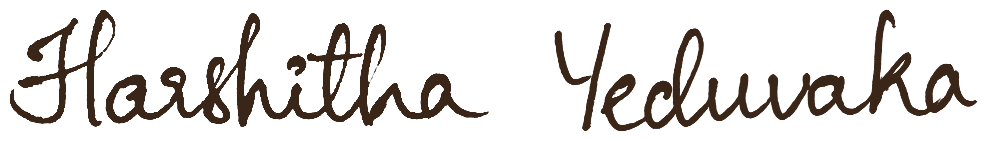
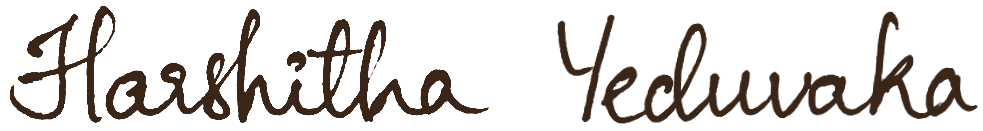
Signature: 'Yeduvaka' levelled (-2deg) onto Harshitha's baseline; CSS tilt removed

diff --git a/scripts/app.js b/scripts/app.js
@@ -1,8 +1,8 @@
 // app.js — motion orchestration, desk interactions, section rendering.
-import { play, playFile, startMusic, stopMusic, isMuted, setMuted } from "./sound.js?v=20261110j";
+import { play, playFile, startMusic, stopMusic, isMuted, setMuted } from "./sound.js?v=20261110k";
 import {
   meta, about, kit, tools, experience, projects,
-} from "./content.js?v=20261110j";
+} from "./content.js?v=20261110k";
 
 const { gsap, ScrollTrigger, Lenis } = window;
 gsap.registerPlugin(ScrollTrigger);
@@ -126,7 +126,7 @@ function passKit() {
     } else {
       b.innerHTML = `
       <span class="kit__img"><img src="${k.img}" alt="" width="${k.w}" height="${k.h}" loading="lazy" decoding="async" draggable="false" />${
-        k.ink ? `<span class="kit__ink" aria-hidden="true"><span class="kit__sign"><img src="assets/signature.png" alt="" width="983" height="141" draggable="false" /></span>${
+        k.ink ? `<span class="kit__ink" aria-hidden="true"><span class="kit__sign"><img src="assets/signature.png" alt="" width="983" height="131" draggable="false" /></span>${
           k.ink.lines.map((l) => `<span class="kit__type">${l}</span>`).join("")}</span>` : ""
       }</span>`;
     }
@@ -323,7 +323,7 @@ function passKit() {
   if (chaosInk) {
     const [title, tagline] = kit.find((k) => k.ink).ink.lines;
     chaosInk.innerHTML = `
-      <span class="chaos-ink__name"><img src="assets/signature.png" alt="" width="983" height="141" draggable="false" /></span>
+      <span class="chaos-ink__name"><img src="assets/signature.png" alt="" width="983" height="131" draggable="false" /></span>
       <span class="chaos-ink__title">${title}</span>
       <span class="chaos-ink__tag">${tagline}</span>`;
   }

diff --git a/styles/main.css b/styles/main.css
@@ -291,7 +291,7 @@ section { position: relative; }
 .kit__sign {
   display: block; width: 84cqw; padding: 1cqw 0 0; /* her handwritten name (assets/signature.png) */
   line-height: 0;
-  transform: rotate(.45deg); /* cancels the handwriting's own slight upward slope: baseline parallel to the lines below */
+  /* both words are level in the image itself, so no extra rotation: parallel to the lines below */
 }
 .kit__type {
   font-family: "Martian Mono", monospace; font-size: 2.15cqw; letter-spacing: .02em;
@@ -354,7 +354,7 @@ section { position: relative; }
   display: grid; justify-items: center; text-align: center; gap: 1.2cqw;
 }
 .chaos-ink > span { opacity: 0; display: block; }
-.chaos-ink__name { width: 44cqw; line-height: 0; transform: rotate(.45deg); } /* her handwritten name */
+.chaos-ink__name { width: 44cqw; line-height: 0; } /* her handwritten name */
 .chaos-ink__name img, .kit__sign img { width: 100%; height: auto; display: block; }
 .chaos-ink__title { font-family: "Martian Mono", monospace; font-size: 1.7cqw; letter-spacing: .08em; color: var(--roast); }
 .chaos-ink__tag { font-family: "Martian Mono", monospace; font-size: 1.15cqw; color: #4a3528; max-width: 34cqw; line-height: 1.5; }

diff --git a/index.html b/index.html
@@ -11,7 +11,7 @@
 <link rel="preconnect" href="https://fonts.googleapis.com" />
 <link rel="preconnect" href="https://fonts.gstatic.com" crossorigin />
 <link href="https://fonts.googleapis.com/css2?family=Fraunces:opsz,wght,SOFT@9..144,300..800,50&family=Inter+Tight:wght@400;500;600&family=Martian+Mono:wght@400;500;600&family=Allura&display=swap" rel="stylesheet" />
-<link rel="stylesheet" href="styles/main.css?v=20261110j" />
+<link rel="stylesheet" href="styles/main.css?v=20261110k" />
 <link rel="icon" type="image/png" href="assets/logo-hy.png" />
 
 <!-- JSON-LD -->
@@ -187,6 +187,6 @@
 <script src="vendor/ScrollTrigger.min.js"></script>
 <script src="vendor/lenis.min.js"></script>
 
-<script type="module" src="scripts/app.js?v=20261110j"></script>
+<script type="module" src="scripts/app.js?v=20261110k"></script>
 </body>
 </html>
